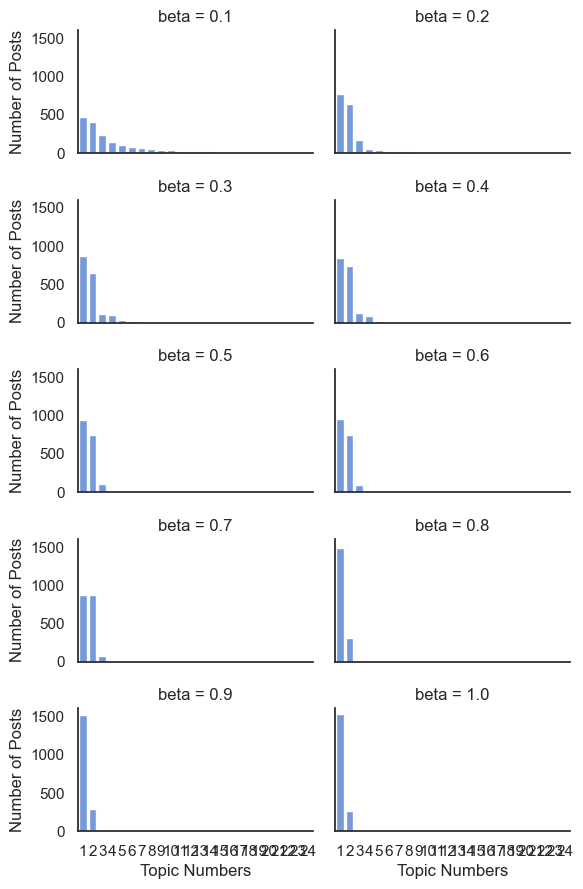
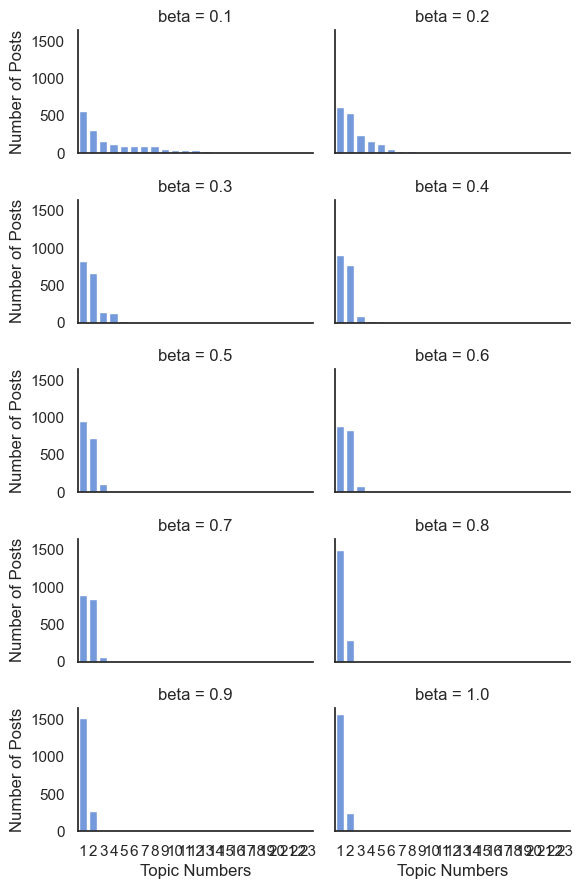
Finish descriptive stats and Twitter topic modeling

diff --git a/src/08.2_bertopic_twitter.py b/src/08.2_bertopic_twitter.py
@@ -1,6 +1,6 @@
 """
 @author: Cory J Cascalheira
-Created: 2023-01-07
+Created: 2023-01-23
 
 The purpose of this script is to generate topic models of the monkeypox conversation on Twitter (general pop), but using
 BERTopic modeling, a method based on the BERT large language model.
@@ -40,10 +40,10 @@ from bertopic import BERTopic
 from sklearn.feature_extraction.text import CountVectorizer
 
 # Import data
-mpx = pd.read_csv('data/combined_subreddits/all_subreddits_mpx_data.csv')
+mpx = pd.read_csv('data/combined_tweets/tweets.csv')
 
 # Convert text to list - no need to pre-process since we are using BERT
-mpx_docs = mpx['body'].values.tolist()
+mpx_docs = mpx['text'].values.tolist()
 
 #endregion
 
@@ -66,17 +66,20 @@ bt_processing_time = end_time - start_time
 print('The processing time is: %f' % (bt_processing_time / 60))
 
 # Save the BERTopic model
-# topic_model.save("data/results/bertopic")
+# topic_model.save("data/results/tweets_bertopic")
+
+# Load the BERTopic model
+# topic_model = BERTopic.load("data/results/tweets_bertopic")
 
 # Take a peak at the topic information
 topic_model.get_topic_info()
 
 # Visualize intertopic distance map and export to HTML
 vis = topic_model.visualize_topics()
-vis.write_html("plots/bertopic/bertopic.html")
+vis.write_html("plots/bertopic/tweets_bertopic.html")
 
 # Reduce topics
-topic_model.reduce_topics(mpx_docs, nr_topics=15)
+topic_model.reduce_topics(mpx_docs, nr_topics=4)
 topic_model.get_topic_info()
 
 # Remove stop words and create n grams for topic representation
@@ -85,34 +88,16 @@ topic_model.update_topics(mpx_docs, vectorizer_model=vectorizer_model)
 topic_model.get_topic_info()
 
 # Rename the topics
-topic_model.set_topic_labels({-1: "Noise", 0: "MPX Vax Info Sharing", 1: "Intersection Between Gay Men and MPX", 2: "MPX as STD",
-                              3: "Gay Men Spread MPX", 4: "Injection Site Symptoms", 5: "MPX Spreads via Skin Contact",
-                              6: "Homophobia Concerns", 7: "Expressing Gratitude", 8: "MPX Cases and Testing",
-                              9: "MPX Vax Availability", 10: "Vax 2nd Dose", 11: "Visiting the Doctor",
-                              12: "COVID-19 References", 13: "Comparing Straight and Gay People",
-                              14: "Blame & Fear Mongering"})
+topic_model.set_topic_labels({-1: "Noise", 0: "MPX Cases", 1: "MPX GT", 2: "MPX SA",
+                              3: "MPX and COVID-19"})
 
 # Save the topic results
 topic_df = topic_model.get_topic_info()
 topic_df['Percent'] = topic_df['Count'] / len(mpx_docs)
-topic_df.to_csv("data/results/bertopic.csv")
+topic_df.to_csv("data/results/tweets_bertopic.csv")
 
 # Get information for reporting
 pprint.pprint(topic_model.representative_docs_)
 pprint.pprint(topic_model.topic_representations_)
-
-#endregion
-
-#region DYNAMIC TOPIC MODELING
-
-# Prepare the time component
-timestamps = mpx['converted_createdutc'].values.tolist()
-
-# Create topics over time
-topics_over_time = topic_model.topics_over_time(mpx_docs, timestamps, nr_bins=20)
-
-# Visualize topics
-vis_time = topic_model.visualize_topics_over_time(topics_over_time, custom_labels=True, height=500)
-vis_time.write_html("plots/bertopic/bertopic_time.html")
 
 #endregion

diff --git a/src/07.2_topic_modeling_twitter.py b/src/07.2_topic_modeling_twitter.py
@@ -430,6 +430,7 @@ mgp_05 = MovieGroupProcess(K=30, alpha=0.1, beta=0.5, n_iters=40)
 gsdmm_b05 = mgp_05.fit(docs=mpx_words_cleaned, vocab_size=n_terms)
 post_count_05 = np.array(mgp_05.cluster_doc_count)
 print('Beta = 0.5. The number of posts per topic: ', post_count_05)
+start_time = time.time()
 end_time = time.time()
 processing_time = end_time - start_time
 print(processing_time / 60)
@@ -487,10 +488,10 @@ beta_10 = np.sort(np.append(np.repeat(0, [len(beta_01)-len(beta_10)]), beta_10))
 n_posts = np.append(beta_01, [beta_02, beta_03, beta_04, beta_05, beta_06, beta_07, beta_08, beta_09, beta_10])
 
 # Create list of topic numbers
-topic_numbers = [24, 23, 22, 21, 20, 19, 18, 17, 16, 15, 14, 13, 12, 11, 10, 9, 8, 7, 6, 5, 4, 3, 2, 1] * 10
+topic_numbers = [23, 22, 21, 20, 19, 18, 17, 16, 15, 14, 13, 12, 11, 10, 9, 8, 7, 6, 5, 4, 3, 2, 1] * 10
 
 # Create a list of beta values
-beta_list = [[0.1] * 24] + [[0.2] * 24] + [[0.3] * 24] + [[0.4] * 24] + [[0.5] * 24] + [[0.6] * 24] + [[0.7] * 24] + [[0.8] * 24] + [[0.9] * 24] + [[1.0] * 24]
+beta_list = [[0.1] * 23] + [[0.2] * 23] + [[0.3] * 23] + [[0.4] * 23] + [[0.5] * 23] + [[0.6] * 23] + [[0.7] * 23] + [[0.8] * 23] + [[0.9] * 23] + [[1.0] * 23]
 beta_values = [item for sublist in beta_list for item in sublist]
 
 # Double check that the betas are same length as topic numbers
@@ -508,12 +509,12 @@ gsdmm_plot.set_axis_labels("Topic Numbers", "Number of Posts")
 gsdmm_plot.savefig('plots/twitter_gsdmm_topics.png')
 
 # Optimal number of topics?
-print('The optimal number of topics in GSDMM, based on average, is: ', (19 + 11 + 12 + 6 + 8 + 5 + 4 + 5 + 3 + 3) / 10)
+print('The optimal number of topics in GSDMM, based on average, is: ', (17 + 14 + 9 + 6 + 7 + 4 + 3 + 4 + 4 + 3) / 10)
 
-# Since optimal number of plots is GSDMM is 7.6, round to 8---use model where beta = 0.5
+# Since optimal number of plots is GSDMM is 7.1, round to 7---use model where beta = 0.5
 
 # Rearrange the topics in order of importance
-top_index = post_count_05.argsort()[-24:][::-1]
+top_index = post_count_05.argsort()[-23:][::-1]
 
 # Get the top 10 words per topic
 top_words(mgp_05.cluster_word_distribution, top_cluster=top_index, values=10)
@@ -554,16 +555,5 @@ print(gsdmm_topic_counts.sort_values(['percentage'], ascending=False))
 
 # Sort the data frame
 gsdmm_mpx_df = gsdmm_mpx_df.sort_values(by=['topic', 'topic_probability'], ascending=[False, False])
-
-# Select the 10 most illustrative posts per topic
-topics_to_quote = gsdmm_mpx_df.groupby('topic').head(10)
-
-# Save the data frame for easy reading
-topics_to_quote.to_csv("data/results/tweets_gsdmm_topics_to_quote.csv")
-
-# Percentage of posts with each top 3 topic
-print(post_count_05[29] / len(mpx_words_cleaned))
-print(post_count_05[13] / len(mpx_words_cleaned))
-print(post_count_05[5] / len(mpx_words_cleaned))
 
 #endregion

diff --git a/src/08.1_bertopic_reddit.py b/src/08.1_bertopic_reddit.py
@@ -1,6 +1,6 @@
 """
 @author: Cory J Cascalheira
-Created: 2022-11-13
+Created: 2022-11-21
 
 The purpose of this script is to generate topic models of the monkeypox conversation among LGBTQ+ people, but using
 BERTopic modeling, a method based on the BERT large language model.
@@ -67,6 +67,9 @@ print('The processing time is: %f' % (bt_processing_time / 60))
 
 # Save the BERTopic model
 # topic_model.save("data/results/bertopic")
+
+# Load the BERTopic model
+# topic_model = BERTopic.load("data/results/bertopic")
 
 # Take a peak at the topic information
 topic_model.get_topic_info()

diff --git a/README.md b/README.md
@@ -1,6 +1,7 @@
 # An Analysis of Monkeypox Communication Among LGBTQ+ People on Social Media
 
-A data mining analysis of the monkeypox (MPX) conversation among LGBTQ+ people who use Reddit.com.
+A data mining analysis of the monkeypox (MPX) conversation among LGBTQ+ people who use Reddit.com vs the general 
+population who use Twitter.com.
 
 All analyses conducted in Python 3.10 and R 4.1.3.
 
